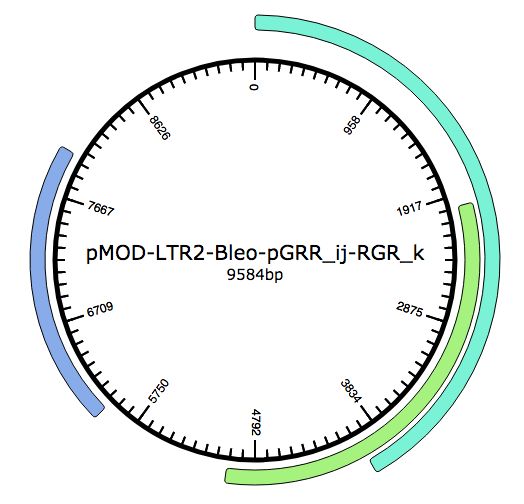
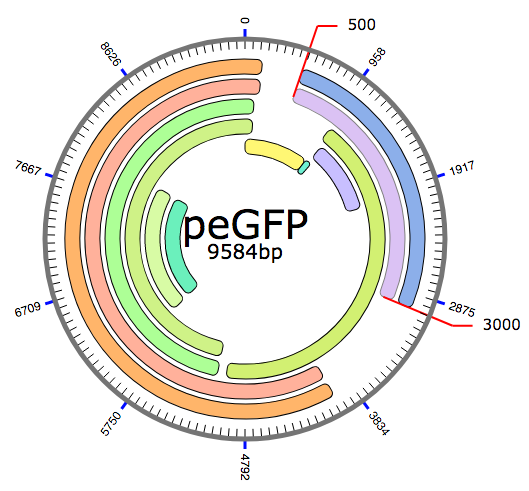
updated example image

diff --git a/src/App.js b/src/App.js
@@ -12,22 +12,62 @@ class App extends Component {
             {start: 500, end: 3000},
             {start: 5100, end: 100},
             {start: 6000, end: 8000},
+            {start: 4000, end: 150},
+            {start: 500, end: 3000},
+            {start: 5100, end: 100},
+            {start: 6000, end: 8000},
             {start: 4000, end: 150}
         ];
+
+        let minorTickStyle = {
+            minorTicks: 150,
+            minorTickHeight: -10,
+            minorTickOffset: 0,
+            minorTickStroke: 'black',
+            minorTickWidth: 1,
+        };
+
+        let majorTickStyle = {
+            majorTicks: 10,
+            majorTickHeight: 10,
+            majorTickOffset: 0,
+            majorTickStroke: "blue",
+            majorTickWidth: 3,
+            axisLabelOffset: 15,
+            tickLabelFontSize: 12,
+        };
+
+        let featureStyle = {
+            shellHeight: -15,
+            featureCornerRadius: 5,
+            shellOffset: -20,
+            shellPadding: -5,
+        };
+
+        let plasmidInfo = {
+            radius: 200,
+            height: 750,
+            width: 750,
+            spineStroke: 'gray',
+            spineWidth: 5.0,
+            name: "peGFP",
+            context: 9584,
+            nameFontSize: 40,
+            infoFontSize: 20,
+        }
+
+
         return (
             <div className="App">
                 <header className="App-header">
                     <h2>React Plasmid</h2>
                 </header>
                 <div>
-                    <Plasmid radius={200} height={750} width={750} spineStroke={'gray'} spineWidth={5.0}
-                             name={"peGFP"} context={9584} nameFontSize={40} infoFontSize={20}
-                             tickLabelFontSize={12}
-                             minorTicks={150} minorTickHeight={-10} minorTickOffset={0}
-                             majorTicks={10} majorTickHeight={10} majorTickOffset={0} majorTickStroke={"blue"}
-                             axisLabelOffset={15}
-                             shellHeight={-10} featureCornerRadius={10} shellOffset={-20} shellPadding={-5}
-                            featureData={featureData}/>
+                    <Plasmid {...plasmidInfo}
+                             {...minorTickStyle}
+                             {...majorTickStyle}
+                             {...featureStyle}
+                             featureData={featureData}/>
                 </div>
             </div>
         );
